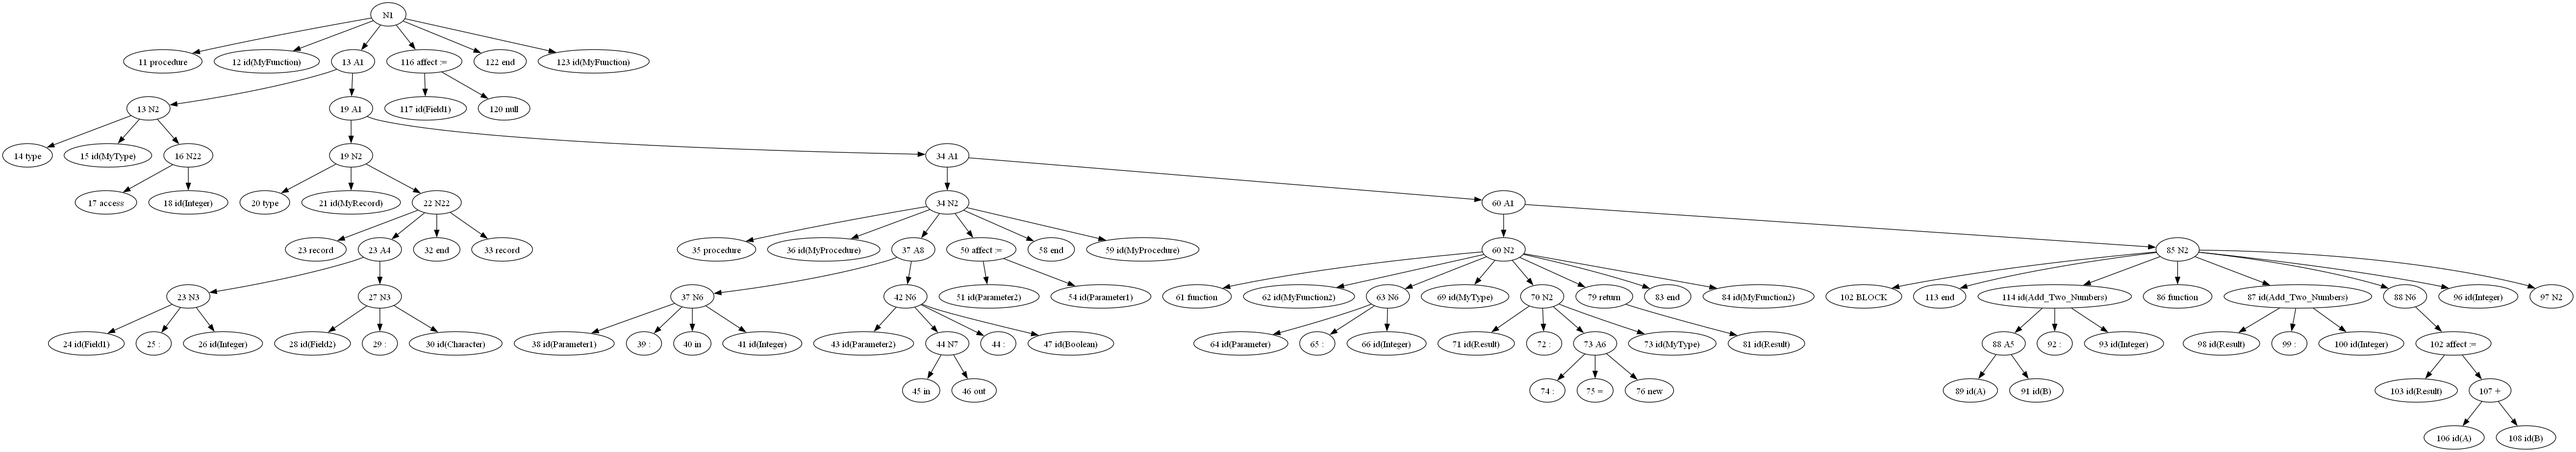
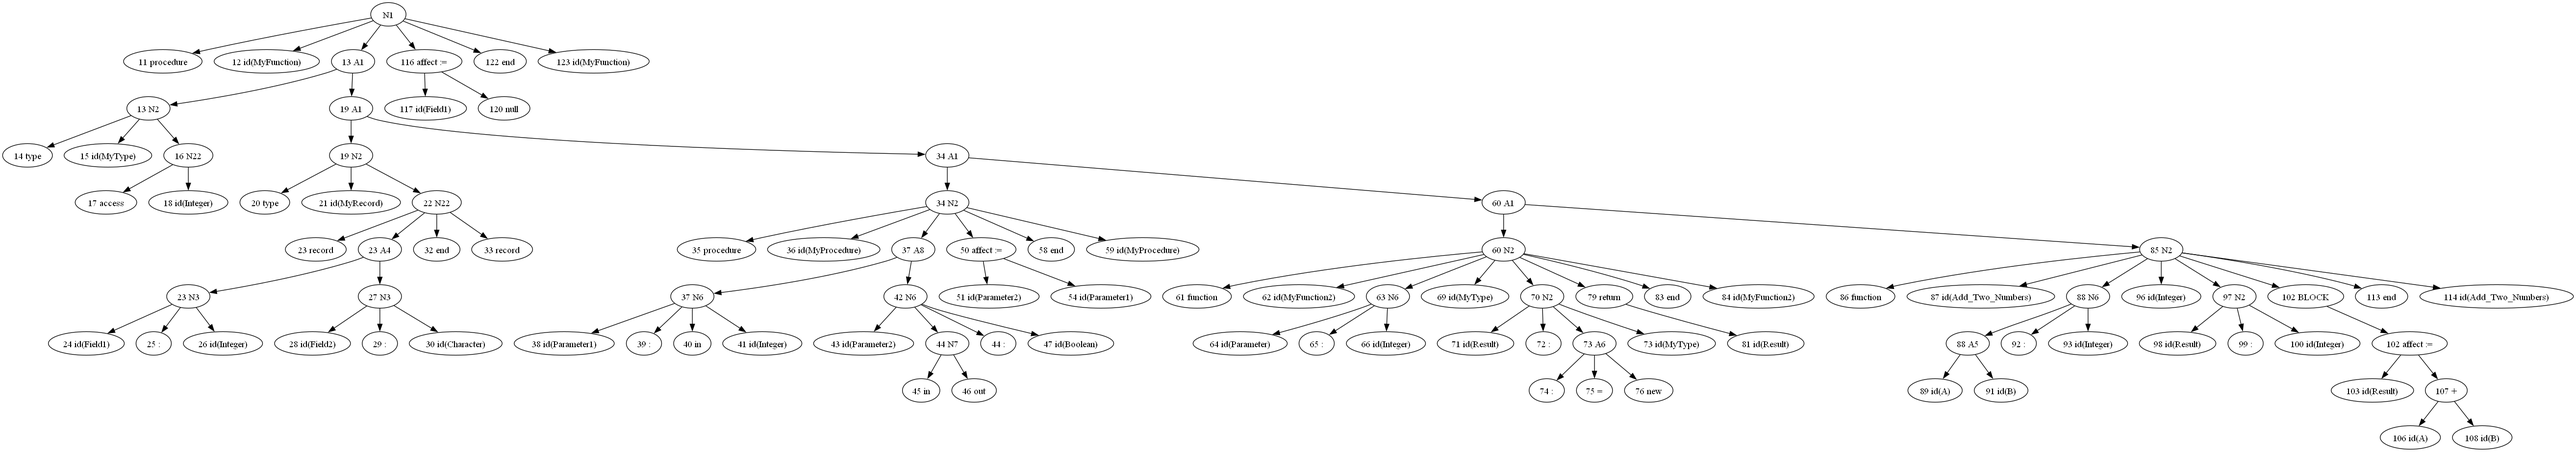
construction arbre conditions if corrigées

diff --git a/parseur/main_parseur.py b/parseur/main_parseur.py
@@ -112,10 +112,10 @@ def delete_all_nodes(root):
 
 
 def operation(node):
+    op = ["+", "-", "*", "/"]
     for i in range(0, len(node.children)):
         # si un noeud à un enfant qui est un opérateur
         name = node.children[i].name.split(" ")
-        op = ["+", "-", "*", "/"]
         if name[1] in op:
             # les frères de l'opérateur deviennent les enfants du père du noeud
             freres = node.children[i].siblings
@@ -153,6 +153,26 @@ def removeA2(node):
                 A2_destroyer(node)
 
 
+def cas_difference(node):
+    if node.name.split(" ")[1] == "condExpr":
+        print("dfnkdsnkjnskjnfkdsnfdslknflkdsnflkdsnflkdsnflkdsnfdlksndsnflkdsnf")
+        children = node.children
+        for i in range(0, len(children)):
+            name = children[i].name.split(" ")
+            if name[1] == "/":
+                enfant = children[i].children
+                for j in range(0, len(enfant)):
+                    if enfant[j].name.split(" ")[1] != "=":
+                        enfant[j].parent = node
+
+        for i in range(0, len(children)):
+            name = children[i].name.split(" ")
+            if name[1] == "/":
+                children[i].parent = None
+
+        node.name = node.name.split(" ")[0] + " " + "/="
+
+
 def generate_final_AST(root):
     delete_leef_epsX(root)
     delete_all_nodes(root)
@@ -180,7 +200,6 @@ def generate_final_AST(root):
         for node in PostOrderIter(root):
             clean(node)
 
-
     for node in PreOrderIter(root):
         if node.name != "N1":
             operation(node)
@@ -191,7 +210,6 @@ def generate_final_AST(root):
                 name = node.name.split(" ")
                 if name[1][:4] == "EXPR":
                     operation(node)
-
 
     for i in range(0, 5):
         for node in PreOrderIter(root):
@@ -207,6 +225,12 @@ def generate_final_AST(root):
     for node in PreOrderIter(root):
         if node.name != "N1":
             operationCond(node)
+
+    for node in PreOrderIter(root):
+        if node.name != "N1":
+            cas_difference(node)
+
+    remove_duplicate_children_working(root)
 
     return root
 
@@ -266,17 +290,6 @@ def operationCond(node):
     # si le noeud à 4 fils
     elif len(node.children) == 4:
         reduce_ope4(node)
-    elif len(node.children) >= 5:
-        # c'est à dire que le noeud à 5 ou plus,
-        # il faut reformer dans le bon ordre les noeuds des opérations
-        # on récupère dans un tableau tous les fils
-        fils = []
-        for i in range(len(node.children)):
-            fils.append(node.children[i].name)
-
-        fils = sorted(fils)
-        for i in range(len(node.children)):
-            node.children[i].name = fils[i]
 
 
 def countleaves(node):
